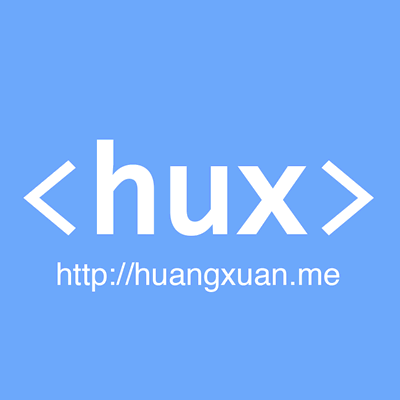
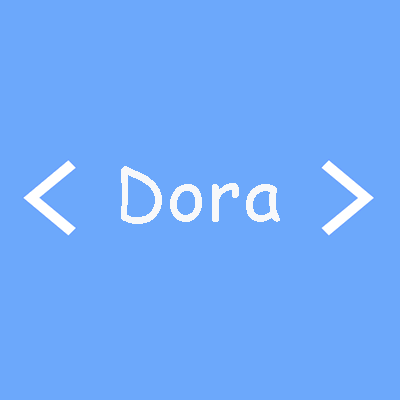
config

Changed region(s): [[0.24, 0.33, 0.78, 0.6], [0.12, 0.66, 0.87, 0.75]]

diff --git a/README.zh.md b/README.zh.md
@@ -123,7 +123,7 @@ tags:
 # Sidebar settings
 sidebar: true  #添加侧边栏
 sidebar-about-description: "简单的描述一下你自己"
-sidebar-avatar: /img/avatar-hux.jpg     #你的大头贴，请使用绝对地址.
+sidebar-avatar: /img/avatar-dora.jpg     #你的大头贴，请使用绝对地址.
 ```
 
 侧边栏是响应式布局的，当屏幕尺寸小于992px的时候，侧边栏就会移动到底部。具体请见bootstrap栅格系统 <http://v3.bootcss.com/css/>
